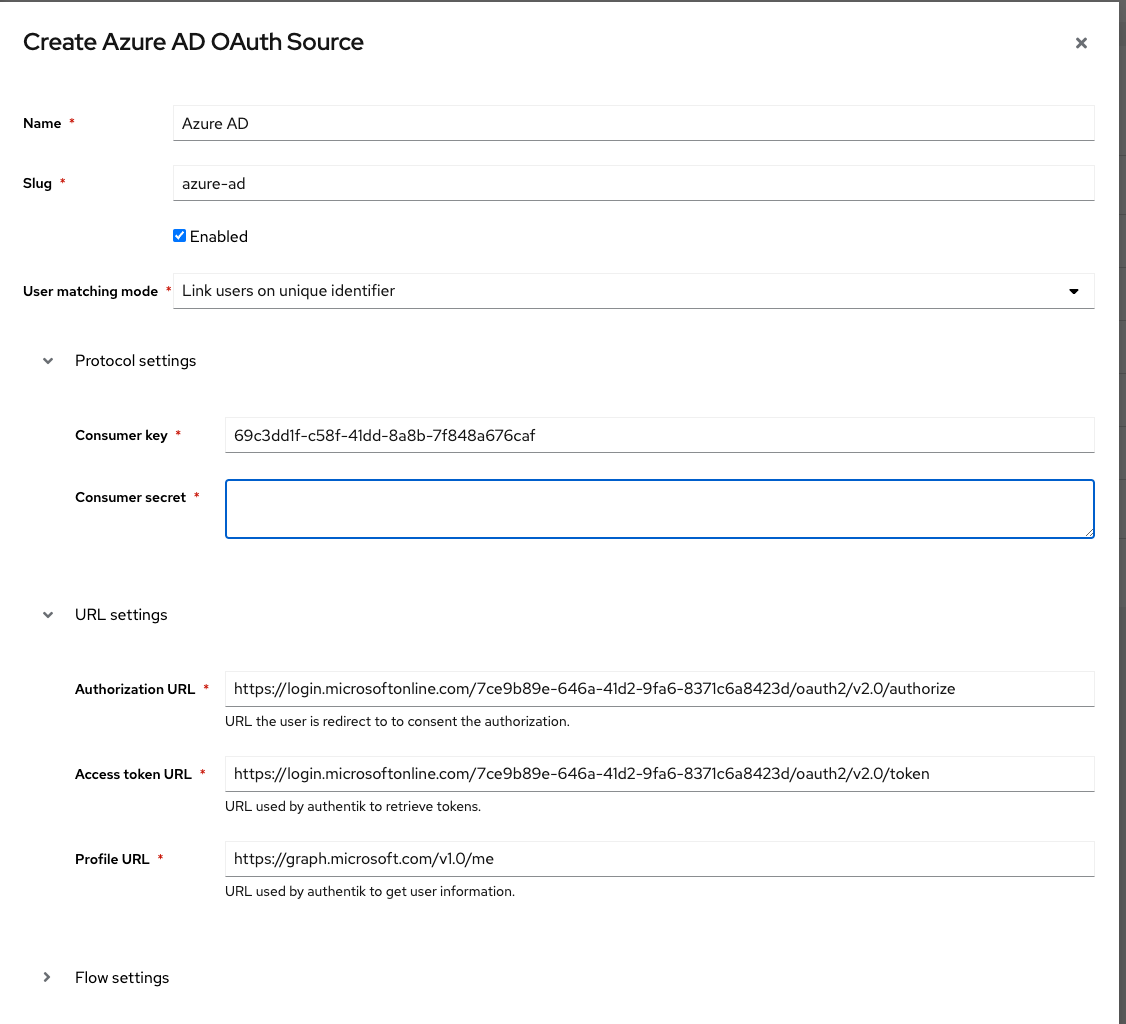
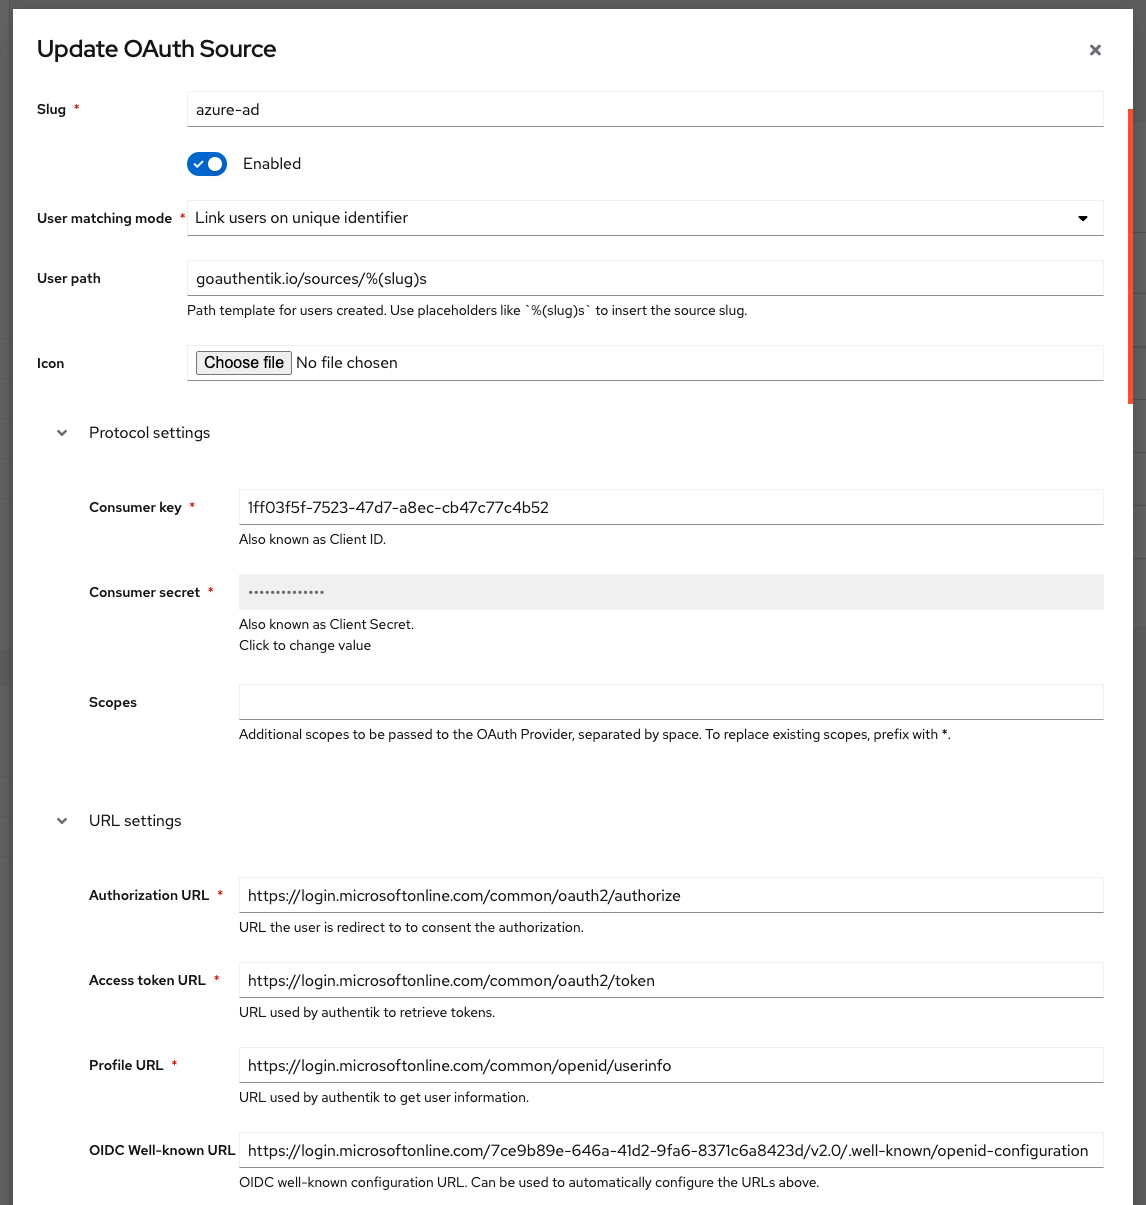
website/integrations: update azure AD integration

diff --git a/website/integrations/sources/azure-ad/index.md b/website/integrations/sources/azure-ad/index.md
@@ -38,10 +38,9 @@ Use the following settings:
 -   Consumer key: `*Application (client) ID* value from above`
 -   Consumer secret: `*Value* of the secret from above`
 
-If you kept the default _Supported account types_ selection of _Single tenant_, then you must change the URLs below as well:
+If you kept the default _Supported account types_ selection of _Single tenant_, then you must change the URL below as well:
 
--   Authorization URL: `https://login.microsoftonline.com/*Directory (tenant) ID* from above/oauth2/v2.0/authorize`
--   Access token URL: `https://login.microsoftonline.com/*Directory (tenant) ID* from above/oauth2/v2.0/token`
+-   OIDC Well-known URL: `https://login.microsoftonline.com/*Directory (tenant) ID* from above/v2.0/.well-known/openid-configuration`
 
 ![](./authentik_01.png)
 
